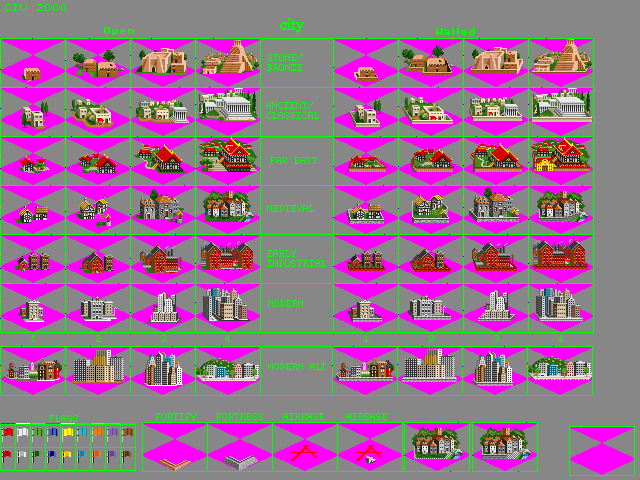
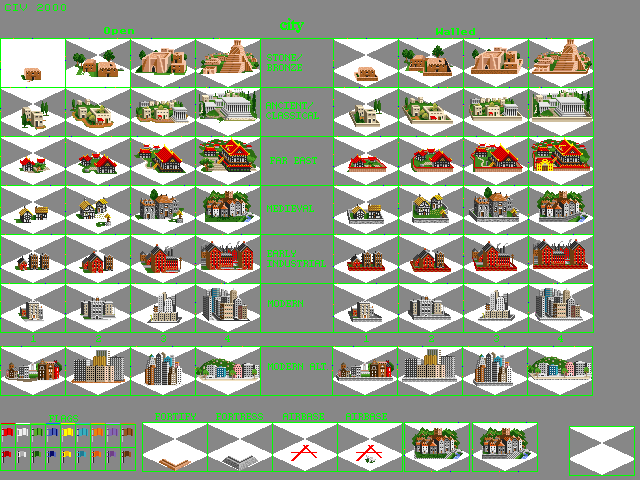
added city sprites and started a click action to open city summary

diff --git a/public/Canvas.js b/public/Canvas.js
@@ -5,7 +5,7 @@ class Canvas {
         this.ctx.imageSmoothingEnabled = false;
         this.boardSize = {x: board.size.x, y: board.size.y}
         this.tileSize = {}
-        this.orientation = ""  // short diamond, diamond, or [nothing = standard]
+        this.orientation = "short diamond"  // short diamond, diamond, or [nothing = standard]
         this.selectedUnit = ""
         this.selectedTile = ""
         this.sounds = {}
@@ -16,8 +16,10 @@ class Canvas {
         }
         this.adjustCanvasSizeToBrowser(board)
         this.initializeSounds()
-        this.initializeSprites()
-        this.initializeTerrain()
+        this.initializeUnitSprites()
+        this.initializeTerrainSprites()
+        this.initializeCitiesSprites()
+        this.initializeCitySprite()
         //this.#setOffScreenCanvas()
         //canvas.renderMapOffScreenCanvas({board: clientGame.board, username: localPlayer.username})
     }
@@ -171,6 +173,7 @@ class Canvas {
     #renderTile({tile, username}) {
         this.#renderTerrain(tile)
         this.#renderUnit(tile, username)
+        this.#renderCity(tile, username)
         this.#renderTileOutline(tile)
     }
 
@@ -272,6 +275,43 @@ class Canvas {
         }
     }
 
+    #renderCity(tile, username) {
+        
+        if (tile.city) { // unit exists on tile
+
+            // render tiles on the board
+            const city = "stone-bronze-1-open"
+            const citySpritesSheet = this.sprites.cities
+            this.ctx.save()
+            this.#prepareCanvasToRenderImage(tile)
+            this.#drawSpriteCenteredOnCanvasOrigin({spriteSheet: citySpritesSheet, sprite: city})
+            this.ctx.restore()
+
+            // render the copied images of the tiles on either side of the board for diamond pattern
+            if (( this.orientation === "diamond" || this.orientation === "short diamond" )) {
+                if (this.#toBeCopiedForRightSideOfDiamondMap(tile)) {
+                    this.ctx.save()
+                    this.#prepareCanvasToRenderImageForRightReflection(tile)
+                    this.#drawSpriteCenteredOnCanvasOrigin({spriteSheet: citySpritesSheet, sprite: city})
+                    this.ctx.restore()
+                }
+                if (this.#toBeCopiedForLeftSideOfDiamondMap(tile)) {
+                    this.ctx.save()
+                    this.#prepareCanvasToRenderImageForLeftReflection(tile)
+                    this.#drawSpriteCenteredOnCanvasOrigin({spriteSheet: citySpritesSheet, sprite: city})
+                    this.ctx.restore()
+                }
+            } else { // render image at left of board for standard
+                if (this.#toBeCopiedForLeftSideOfStandardMap(tile)) {
+                    this.ctx.save()
+                    this.#prepareCanvasToRenderImageForLeftReflection(tile)
+                    this.#drawSpriteCenteredOnCanvasOrigin({spriteSheet: citySpritesSheet, sprite: city})
+                    this.ctx.restore()
+                }
+            }
+        }
+    }
+
     // true if board tile is cropped
     #isCroppedTileforDiamondView({x, y}) {
         let isCroppedTileFromTopOfDiamondView = y < ( this.boardSize.x - x - 1 )
@@ -363,6 +403,14 @@ class Canvas {
             spriteSheet,
             ...this.#imageLocationAndDimensionsOnSpriteSheet(spriteSheet, sprite), // source (sprite sheet) image x, y, w, h
             ...this.#imagePositionRelativeToCenterOfTileAndDimensions(), // destination (board) x, y, w, h
+        )
+    }
+
+    drawCityCanvasOrigin({spriteSheet}) {
+        this.ctx.drawImage(
+            spriteSheet, 0, 0,
+            //...this.#imageLocationAndDimensionsOnSpriteSheet(spriteSheet, sprite), // source (sprite sheet) image x, y, w, h
+            //0, 0, window.size.x, window.size.y, // destination (board) x, y, w, h
         )
     }
 
@@ -509,6 +557,11 @@ class Canvas {
     }
 
     selectTile(tile) { this.selectedTile = tile }
+
+    // clearly this needs to be renamed or changed to be for cities only
+    lookInsideCity(tile) {
+        if (tile.city && this.clientOwnsUnit({unit: tile.city, username: username})) { this.selectedUnit = tile.unit }
+    }
 
     deselectUnit() { this.selectedUnit = "" }
 
@@ -808,7 +861,7 @@ class Canvas {
         this.sounds.swordFight = new Audio('SWORDFGT.WAV');
     }
 
-    initializeSprites() {
+    initializeUnitSprites() {
         this.sprites.units = new Image()
         this.sprites.units.src = "units.png"
         let unitSprites = [
@@ -827,7 +880,7 @@ class Canvas {
         })
     }
 
-    initializeTerrain() {
+    initializeTerrainSprites() {
         this.sprites.terrain2 = new Image()
         this.sprites.terrain2.src = "terrain2.png"
         let terrain2Sprites = [
@@ -869,6 +922,29 @@ class Canvas {
                 this.sprites.terrain1[terrain] = {x: 2+i*65, y: 2+j*33, w: 62, h: 30}
             })
         })
+    }
+
+    initializeCitiesSprites() {
+        this.sprites.cities = new Image()
+        this.sprites.cities.src = "cities.png"
+        let citiesSprites = [
+            ['stone-bronze-1-open', 'stone-bronze-2-open', 'stone-bronze-3-open', 'stone-bronze-4-open', '', 'stone-bronze-1-walled', 'stone-bronze-2-walled', 'stone-bronze-3-walled', 'stone-bronze-4-walled'],
+            ['ancient-classical-1-open', 'ancient-classical-2-open', 'ancient-classical-3-open', 'ancient-classical-4-open', '', 'ancient-classical-1-walled', 'ancient-classical-2-walled', 'ancient-classical-3-walled', 'ancient-classical-4-walled'],
+            ['far-east-1-open', 'far-east-2-open', 'far-east-3-open', 'far-east-4-open', '', 'far-east-1-walled', 'far-east-2-walled', 'far-east-3-walled', 'far-east-4-walled'],
+            ['medieval-1-open', 'medieval-2-open', 'medieval-3-open', 'medieval-4-open', '', 'medieval-1-walled', 'medieval-2-walled', 'medieval-3-walled', 'medieval-4-walled'],
+            ['early-industrial-1-open', 'early-industrial-2-open', 'early-industrial-3-open', 'early-industrial-4-open', '', 'early-industrial-1-walled', 'early-industrial-2-walled', 'early-industrial-3-walled', 'early-industrial-4-walled'],
+            ['modern-1-open', 'modern-2-open', 'modern-3-open', 'modern-4-open', '', 'modern-1-walled', 'modern-2-walled', 'modern-3-walled', 'modern-4-walled']
+        ]
+        citiesSprites.forEach( (row, j) => {
+            row.forEach( (city, i) => {
+                this.sprites.cities[city] = {x: 2+i*65, y: 40+j*49, w: 62, h: 46}
+            })
+        })
+    }
+
+    initializeCitySprite() {
+        this.sprites.city = new Image()
+        this.sprites.city.src = "city.png"
     }
 
     #imageLocationAndDimensionsOnSpriteSheet(terrainSpritesSheet, terrain) {

diff --git a/Game.js b/Game.js
@@ -1,4 +1,5 @@
 const Unit = require('./Unit')
+const City = require('./City')
 
 class Game {
     constructor({players, board}) {
@@ -37,6 +38,7 @@ class Game {
         this.board.tiles.forEach( (columnOfTiles, i) => {
             columnOfTiles.forEach( (tile, j) => {
                 if (tile.unit.player && tile.unit.player.username === username) {tile.unit = ""}
+                if (tile.city.player && tile.city.player.username === username) {tile.city = ""}
             })
         })
     }
@@ -46,6 +48,7 @@ class Game {
         let y = Math.floor(Math.random() * this.board.size.y)
         let tile = this.board.tiles[x][y]
         tile.unit = new Unit({player: player, coordinates: {x, y}})
+        tile.city = new City({player: player, coordinates: {x, y}})
     }
 
     addUnit({unit, tile}) {

diff --git a/public/client.js b/public/client.js
@@ -99,6 +99,7 @@ function registerEventListeners() {
         } else {
             const rect = canvas.canvas.getBoundingClientRect()
             let targetTile = clientGame.board.tiles[clickedTile.x][clickedTile.y]
+            canvas.drawCityCanvasOrigin({spriteSheet: canvas.sprites.city}) // gets covered up by animation frame
             canvas.selectTile(targetTile)
             canvas.selectUnit({tile: targetTile, username: socket.id})
         }

diff --git a/public/client.html b/public/client.html
@@ -12,9 +12,8 @@
 	<script src="./client.js"></script>
 </head>
 <body>
-	<canvas id="canvas1"></canvas>
 	<div id="stage">
-		<!--<canvas id="canvas1"></canvas>-->
+		<canvas id="canvas1"></canvas>
 		<canvas id="ui-layer" width="480" height="320"></canvas>
 		<canvas id="game-layer" width="480" height="320"></canvas>
 		<canvas id="background-layer" width="480" height="320"></canvas>

diff --git a/City.js b/City.js
@@ -1,0 +1,11 @@
+class City {
+    constructor({player, coordinates}) {
+        this.player = player
+        this.color = this.player.color
+        this.coordinates = coordinates
+        this.selectable = true
+        //this.selected = false
+    }
+}
+
+module.exports = City

diff --git a/Tile.js b/Tile.js
@@ -2,6 +2,7 @@ class Tile {
     constructor({x, y}) {
         this.terrain = this.generateRandomTerrain()
         this.unit = ""
+        this.city = ""
         this.coordinates = {x: x, y: y}
         this.isViewableBy = [] // array of players who can see this terrain
     }
